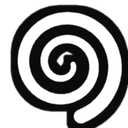
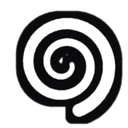
Mapa: las marcas vecinas ya no se pisan, íconos sin el contorno cortado y la cascada con su nombre al lado
- En los rincones de los jefes hay tres marcas en 15 m (el portal de la cascada queda a 7 m de Mizuchi, 15 px
  a zoom 1): el espiral tapaba el sello y el torii lo tocaba. Ahora las marcas que se ven se separan lo justo
  (DeclutterMarks, una relajación chica al abrir y al cambiar la resolución); el sello del jefe no se mueve y
  el corrimiento se achica al acercar, así cada marca vuelve a su lugar. La maqueta hace la misma cuenta y el
  cartel se ubica sobre la marca ya corrida.
- El torii y el espiral del portal llegaban al borde del lienzo: el contorno de tinta quedaba cortado en las
  puntas del kasagi, el pie de los postes y la cola del espiral. Se dibujan dentro del margen del contorno
  (mismos GUID y .meta).
- "Cascada Kohan" iba en la niebla entre el bambú y el lago, más cerca del camino del bambú que de la cascada:
  pasa arriba de la arena de Mizuchi, y "Bosque de Bambú" sube un poco para que no se lean como un nombre en
  dos renglones.

diff --git a/Tools/UI/world_map_preview.py b/Tools/UI/world_map_preview.py
@@ -338,6 +338,29 @@ def column(scr, Wc, Hc, scene, gamepad=False):
             x += d.textlength(label, font=f) + 26
 
 
+def declutter(items, view):
+    """UIMap.DeclutterMarks: las marcas no se pisan (el sello del jefe queda fijo); corrimiento en unidades de la
+    lámina a zoom 1, que se aplica por zoom^-0.7."""
+    for it in items:
+        it["at"] = view.content(it["x"], it["z"])
+        it["nudge"] = np.zeros(2)
+    for _ in range(24):
+        for i, a in enumerate(items):
+            for b in items[i + 1:]:
+                wa, wb = (0.0 if a["kind"] == "boss" else 1.0), (0.0 if b["kind"] == "boss" else 1.0)
+                if wa + wb <= 0:
+                    continue
+                d = b["at"] + b["nudge"] - a["at"] - a["nudge"]
+                need = (a["size"] + b["size"]) * 0.5 * 0.85 + 2
+                dist = float(np.hypot(*d))
+                if dist >= need:
+                    continue
+                u = d / dist if dist > 1e-3 else np.array([0.0, 1.0])
+                push = (need - dist) / (wa + wb)
+                a["nudge"] = a["nudge"] - u * push * wa
+                b["nudge"] = b["nudge"] + u * push * wb
+
+
 def mock(map_img, fog, mist, out_path, Wc, Hc, scene, zoom=1.0, pan=None, fog_prev=None, reveal=1.0, gamepad=False):
     """Pantalla del mapa (canvas Wc x Hc, 1:1) con la niebla del estado dado y las marcas que corresponden."""
     bg = np.zeros((int(Hc), int(Wc), 3), np.float32)
@@ -398,27 +421,35 @@ def mock(map_img, fog, mist, out_path, Wc, Hc, scene, zoom=1.0, pan=None, fog_pr
         if la < 1:
             lay.putalpha(lay.getchannel("A").point(lambda q: int(q * la)))
         marks.alpha_composite(lay)
+    # las marcas que se ven (en el orden en que las crea UIMap: santuarios, jefes, portales) y su despeje
+    items = []
     for cid, x, z, yaw in W.CHECKPOINTS:
-        a = vis(x, z)
-        if a <= 0:
-            continue
-        px, py = view.screen(x, z)
-        if cid == scene["checkpoint"]:
-            paste_c(marks, tint(sprite("SoftDot"), (255, 196, 79, 191)), px, py, (64 * s, 64 * s))
-        lit = scene.get("prayed") is None or cid in scene["prayed"]
-        paste_c(marks, tint(sprite("MapShrine"), SHRINE if lit else SHRINE_BARE), px, py, ((34 if cid == scene["checkpoint"] else 27) * s,) * 2, alpha=a)
+        if vis(x, z) > 0:
+            items.append(dict(kind="cp", id=cid, x=x, z=z, size=34 if cid == scene["checkpoint"] else 27))
     for arch, ax, az, r, bx, bz, yaw in W.BOSSES:
-        a = vis(ax, az)
-        if a <= 0:
-            continue
-        px, py = view.screen(ax, az)
-        name = {"goro": "ZoneMountain", "mizuchi": "ZoneLake", "ozeki": "ZoneBamboo", "kage": "ZoneMoon"}[arch] if arch in scene["bosses_done"] else "IconBoss"
-        paste_c(marks, sprite("Hanko_" + name), px, py, (44 * s, 44 * s), rot=6, alpha=a)
+        if vis(ax, az) > 0:
+            items.append(dict(kind="boss", id=arch, x=ax, z=az, size=44))
     for pid, x, z, yaw, flag in W.PORTALS:
-        a = vis(x, z)
-        if flag in scene["flags"] and a > 0:
-            px, py = view.screen(x, z)
+        if flag in scene["flags"] and vis(x, z) > 0:
+            items.append(dict(kind="portal", id=pid, x=x, z=z, size=30))
+    declutter(items, View(cx, cy, sw, sh))
+    inv = zoom ** -0.7
+    for it in items:
+        cx0, cy0 = view.content(it["x"], it["z"]) + np.array(it["nudge"]) * inv
+        px, py = view.cx + (cx0 - view.pan[0]) * zoom, view.cy - (cy0 - view.pan[1]) * zoom
+        it["px"], it["py"] = px, py
+        a = vis(it["x"], it["z"])
+        if it["kind"] == "cp":
+            if it["id"] == scene["checkpoint"]:
+                paste_c(marks, tint(sprite("SoftDot"), (255, 196, 79, int(191 * a))), px, py, (64 * s, 64 * s))
+            lit = scene.get("prayed") is None or it["id"] in scene["prayed"]
+            paste_c(marks, tint(sprite("MapShrine"), SHRINE if lit else SHRINE_BARE), px, py, (it["size"] * s,) * 2, alpha=a)
+        elif it["kind"] == "boss":
+            name = {"goro": "ZoneMountain", "mizuchi": "ZoneLake", "ozeki": "ZoneBamboo", "kage": "ZoneMoon"}[it["id"]] if it["id"] in scene["bosses_done"] else "IconBoss"
+            paste_c(marks, sprite("Hanko_" + name), px, py, (44 * s, 44 * s), rot=6, alpha=a)
+        else:
             paste_c(marks, tint(sprite("MapPortal"), (127, 224, 160)), px, py, (30 * s, 30 * s), alpha=a)
+    scene["_marks"] = {(it["kind"], it["id"]): (it["px"], it["py"]) for it in items}
     px, py = view.screen(kx, kz)
     ring = Image.new("RGBA", scr.size, (0, 0, 0, 0))
     rr = 30 * s
@@ -439,7 +470,8 @@ def mock(map_img, fog, mist, out_path, Wc, Hc, scene, zoom=1.0, pan=None, fog_pr
     # ---- cartel de lo que está bajo el cursor (fuera del recorte)
     if scene.get("tooltip"):
         tx, tz, t1, t2 = scene["tooltip"]
-        px, py = view.screen(tx, tz)
+        # sobre la marca tal como quedó dibujada (con su despeje)
+        px, py = min(((x, y) for (x, y) in scene["_marks"].values()), key=lambda q: math.dist(q, view.screen(tx, tz)))
         f1, f2 = font(TITLE_TTF, 26), font(BODY_TTF, 20)
         d = ImageDraw.Draw(scr)
         w1 = max(d.textlength(t1, font=f1), d.textlength(t2, font=f2) if t2 else 0)

diff --git a/Nindo/Assets/Nindo/Scripts/UI/UIMap.cs b/Nindo/Assets/Nindo/Scripts/UI/UIMap.cs
@@ -45,6 +45,7 @@ namespace Nindo
             public RectTransform rt;
             public Image img, glow;
             public Vector3 world;
+            public Vector2 at, nudge;   // dónde cae en la lámina (zoom 1) y cuánto se corre para no pisar a su vecina
             public Checkpoint cp;
             public BossArena arena;
             public Portal portal;
@@ -280,6 +281,38 @@ namespace Nindo
             mapKaito.SetAsLastSibling();
         }
 
+        /// <summary>
+        /// Las marcas que se ven no se pisan: un portal o un santuario al lado de la arena de un jefe (el portal de la
+        /// cascada queda a 7 m de Mizuchi, 15 px a zoom 1) se corre lo justo para que se lean los dos. El sello del
+        /// jefe no se mueve. El corrimiento está en unidades de la lámina a zoom 1 y se aplica por zoom^-0.7, como el
+        /// tamaño de las marcas: al acercar se separan solas y vuelven a su lugar. Al abrir y al cambiar el tamaño.
+        /// </summary>
+        void DeclutterMarks()
+        {
+            foreach (var m in mapMarks) m.nudge = Vector2.zero;
+            for (int it = 0; it < 24; it++)
+                for (int i = 0; i < mapMarks.Count; i++)
+                {
+                    var a = mapMarks[i];
+                    if (!a.shown) continue;
+                    for (int j = i + 1; j < mapMarks.Count; j++)
+                    {
+                        var b = mapMarks[j];
+                        if (!b.shown) continue;
+                        float wa = a.arena != null ? 0f : 1f, wb = b.arena != null ? 0f : 1f;
+                        if (wa + wb <= 0f) continue;
+                        Vector2 d = b.at + b.nudge - a.at - a.nudge;
+                        // el dibujo ocupa ~85 % de su cuadro (el resto es el margen del contorno)
+                        float need = (a.rt.sizeDelta.x + b.rt.sizeDelta.x) * 0.5f * 0.85f + 2f, dist = d.magnitude;
+                        if (dist >= need) continue;
+                        Vector2 dir = dist > 1e-3f ? d / dist : Vector2.up;
+                        float push = (need - dist) / (wa + wb);
+                        a.nudge -= dir * (push * wa);
+                        b.nudge += dir * (push * wb);
+                    }
+                }
+        }
+
         static Texture2D MapFogTexture(int w, int h)
         {
             return new Texture2D(w, h, TextureFormat.Alpha8, false, true) { name = "Niebla del mapa", filterMode = FilterMode.Bilinear, wrapMode = TextureWrapMode.Clamp };
@@ -288,7 +321,7 @@ namespace Nindo
         MapMark NewMark(Vector3 world, Sprite sprite, float size, Color tint)
         {
             var img = UIFactory.Centered("Mark", mapMarksRt, tint, new Vector2(0.5f, 0.5f), MapPoint(world), new Vector2(size, size), sprite);
-            var m = new MapMark { rt = img.rectTransform, img = img, world = world };
+            var m = new MapMark { rt = img.rectTransform, img = img, world = world, at = img.rectTransform.anchoredPosition };
             mapMarks.Add(m);
             return m;
         }
@@ -320,11 +353,8 @@ namespace Nindo
             mapContent.sizeDelta = new Vector2(mapSheetW, mapSheetH);
             // lo que vive en el contenido se reubica con la nueva escala (los nombres y las marcas no cambian de tamaño)
             float k = mapSheetW / Mathf.Max(1f, oldW);
-            foreach (var m in mapMarks)
-            {
-                m.rt.anchoredPosition = MapPoint(m.world);
-                if (m.glow != null) m.glow.rectTransform.anchoredPosition = m.rt.anchoredPosition;
-            }
+            foreach (var m in mapMarks) m.at = MapPoint(m.world);
+            DeclutterMarks();
             if (mapContentBuilt && MapFog.Data.labels != null)
                 foreach (var (text, zone) in mapLabels)
                     foreach (var l in MapFog.Data.labels)
@@ -451,6 +481,7 @@ namespace Nindo
                 if (m.rt.gameObject.activeSelf != m.shown) m.rt.gameObject.SetActive(m.shown);
                 if (m.glow != null) m.glow.gameObject.SetActive(m.shown && save.checkpoint == m.cp.id);
             }
+            DeclutterMarks();
             for (int i = 0; i < mapLabels.Count; i++)
             {
                 var (text, zone) = mapLabels[i];
@@ -751,7 +782,8 @@ namespace Nindo
                 if (m.shown)
                 {
                     m.rt.localScale = s;
-                    if (m.glow != null) m.glow.rectTransform.localScale = s;
+                    m.rt.anchoredPosition = m.at + m.nudge * inv;
+                    if (m.glow != null) { m.glow.rectTransform.localScale = s; m.glow.rectTransform.anchoredPosition = m.rt.anchoredPosition; }
                     var c = m.img.color;
                     float a = m.fresh ? freshA : 1f;
                     if (c.a != a) { c.a = a; m.img.color = c; }

diff --git a/Tools/UI/build_world_map.py b/Tools/UI/build_world_map.py
@@ -114,7 +114,7 @@ LAMP_GLOW = np.array([0.46, 0.30, 0.07], np.float32)      # resplandor (se suma 
 LABELS = {
     "hogar": (-36, -193, 0, 0), "campos": (56, -128, 1, 0), "bosque": (-14, -62, -1, 0), "muralla": (22, -39, 1, 1),
     "jardin": (-34, 41, 0, 0), "dojo": (0, 181, 0, 0), "montana": (-175, 48, 0, 0, -34.5), "lago": (128, -20, 0, 0),
-    "lago_cascada": (156, 84, -1, 1), "bambu": (114, 118, 1, 0),
+    "lago_cascada": (186, 95, 0, 1), "bambu": (116, 127, 1, 0),
 }
 
 
@@ -1068,14 +1068,18 @@ def map_json(g):
 def icons():
     import build_ui_art as K   # mismo contorno de tinta y mismo guardado que el resto del kit
 
-    # torii: dos postes, el travesaño de abajo (nuki) y el de arriba con las puntas levantadas (kasagi)
+    # torii: dos postes, el travesaño de abajo (nuki) y el de arriba con las puntas levantadas (kasagi). Todo dentro
+    # del margen del contorno (8 px de 128): las puntas del kasagi y el pie de los postes quedaban sin borde, cortados
     m, d, s = K.canvas(128)
-    d.polygon([(s * .03, s * .17), (s * .2, s * .25), (s * .8, s * .25), (s * .97, s * .17), (s * .93, s * .33), (s * .07, s * .33)], fill=255)
-    d.rectangle((s * .15, s * .43, s * .85, s * .52), fill=255)
+
+    def q(x, y):
+        return s * (0.5 + (x - 0.5) * 0.9), s * (0.17 + (y - 0.17) * 0.96)
+    d.polygon([q(.03, .17), q(.2, .25), q(.8, .25), q(.97, .17), q(.93, .33), q(.07, .33)], fill=255)
+    d.rectangle(q(.15, .43) + q(.85, .52), fill=255)
     for x in (.28, .72):
-        d.polygon([(s * (x - .06), s * .3), (s * (x + .06), s * .3), (s * (x + .075), s * .95), (s * (x - .075), s * .95)], fill=255)
-    d.rectangle((s * .46, s * .3, s * .54, s * .43), fill=255)
-    K.save(K.outlined(m, 128, 8), "MapShrine", usage="santuario en el mapa (torii): bermellón visto, oro el de reaparición")
+        d.polygon([q(x - .06, .3), q(x + .06, .3), q(x + .075, .95), q(x - .075, .95)], fill=255)
+    d.rectangle(q(.46, .3) + q(.54, .43), fill=255)
+    K.save(K.outlined(m, 128, 8), "MapShrine", usage="santuario en el mapa (torii): bermellón rezado, papel sin rezar")
 
     # portal: espiral de pincel que se afina hacia adentro
     m, d, s = K.canvas(128)
@@ -1083,10 +1087,10 @@ def icons():
     for i in range(260):
         t = i / 259
         a = t * math.tau * 2.2
-        r = s * (0.07 + 0.36 * t)
+        r = s * (0.06 + 0.32 * t)          # la vuelta de afuera, su trazo y el contorno entran en el lienzo
         p = (s / 2 + math.cos(a) * r, s / 2 + math.sin(a) * r)
         if prev is not None:
-            w = s * (0.04 + 0.07 * t)
+            w = s * (0.035 + 0.065 * t)
             d.line([prev, p], fill=255, width=int(w))
             d.ellipse((p[0] - w / 2, p[1] - w / 2, p[0] + w / 2, p[1] + w / 2), fill=255)
         prev = p
